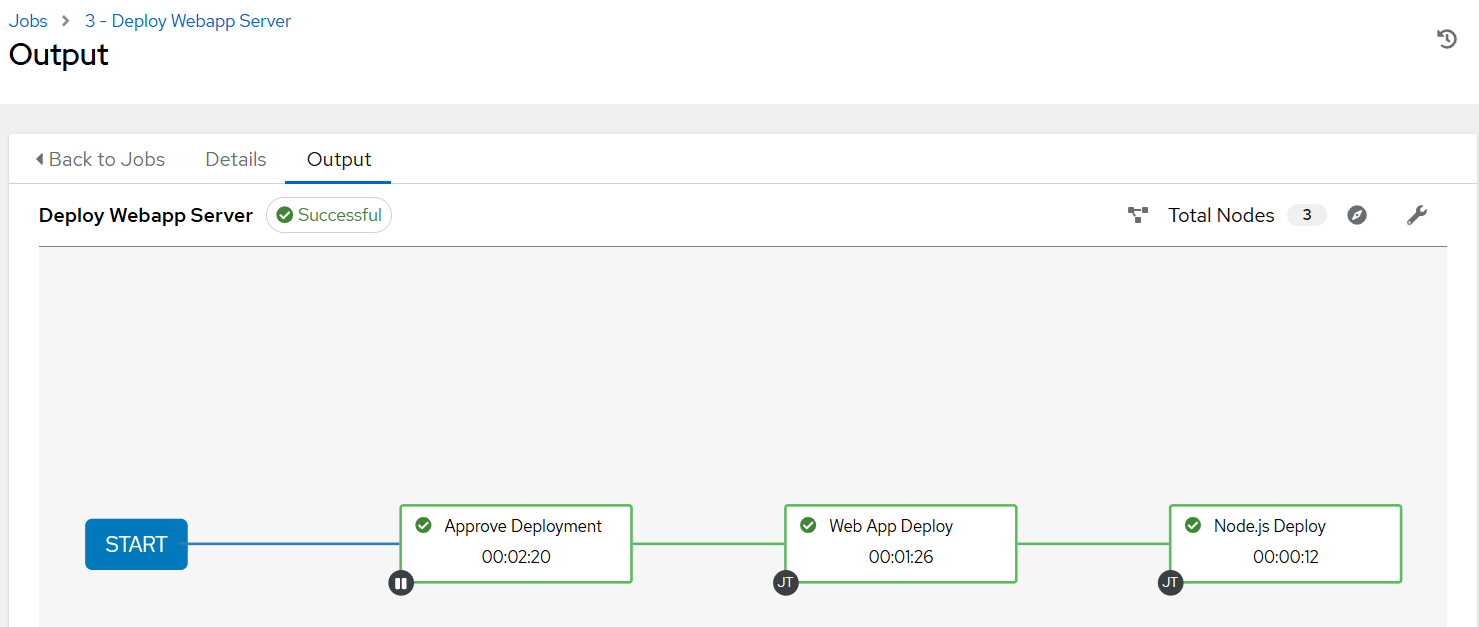
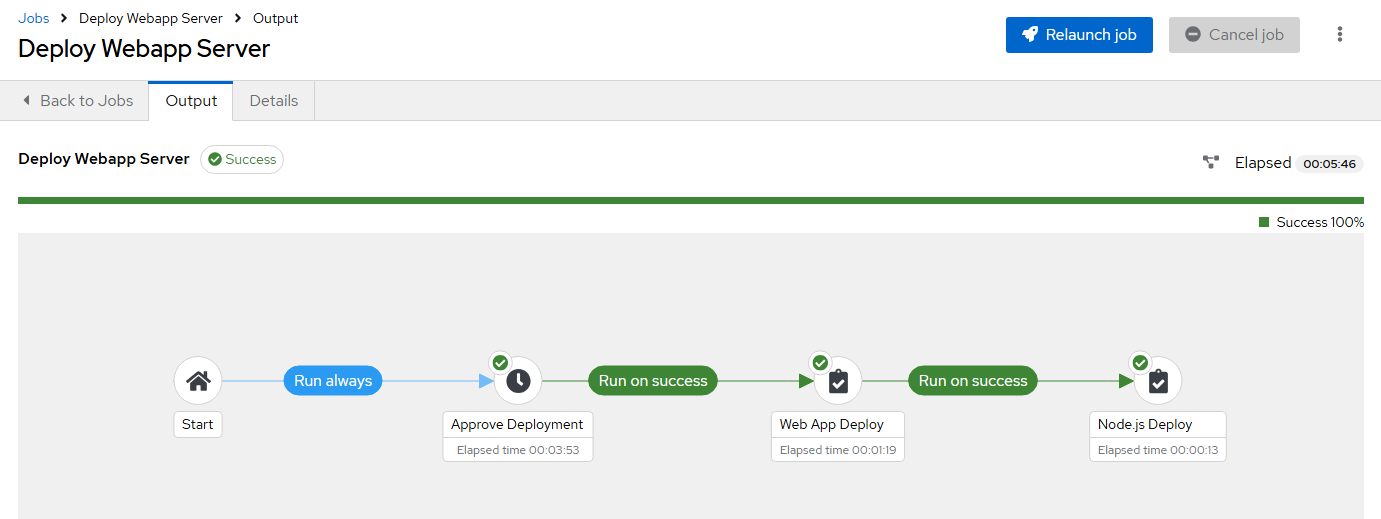
Updated exercises for AAP 2.5, updated MkDocs dependencies.

diff --git a/docs/part2.md b/docs/part2.md
@@ -3,43 +3,12 @@
 Die Konfiguration der Automation Platform wird über ein Ansible Playbook angepasst, du kannst das Playbook mit dem folgenden Kommando im Terminal/auf der Kommandozeile ausführen:
 
 ```console
-ansible-playbook playbook_controller_automation.yml
+ansible-navigator run playbook_controller_automation.yml
 ```
 
 Bei den ersten Ausführungen wirst du mit einigen Fehlermeldung konfrontiert, es fehlen Dependencies, Credentials und auch ein Teil der Automatisierung an sich.
 
-## 1 - Dependencies installieren
-
-Wenn du versuchst das *Playbook* auszuführen, wirst du die folgende Fehlermeldung erhalten:
-
-!!! failure
-
-    ```console
-    ERROR! Error loading module_defaults: could not resolve the module_defaults group awx.awx.controller
-    ```
-
-Es fehlen zur Ausführung notwendige *Dependencies*.  
-Ansible Module werden in *Collections* hinterlegt (im Grunde eine spezielle Ordner-Struktur), sie können auf dem Controller mit einem CLI-Kommando installiert werden. Die Datei `requirements.yml` enthält den Namen der Collection, suche in der [Ansible Dokumentation nach dem passenden Kommando](https://docs.ansible.com/ansible/latest/collections_guide/collections_installing.html#install-multiple-collections-with-a-requirements-file){ target=_blank } und führe es aus.
-
-??? tip "Hilfe nötig?"
-
-    Die fehlende Collection mit folgendem Kommando installieren:
-
-    ```console
-    ansible-galaxy collection install -r requirements.yml
-    ```
-
-    Anschließend mit dem folgenden Kommando prüfen:
-
-    ```console
-    ansible-galaxy collection list
-    ```
-
-!!! question "Alles erledigt?"
-
-    * [x] Notwendige `awx.awx` Collection ist installiert.
-
-## 2 - Credentials exportieren
+## 1 - Credentials exportieren
 
 Um die AAP automatisieren zu können, muss sich das Playbook bei der Ausführung an der API anmelden, die notwendigen Credentials werden als *Umgebungsvariablen* übergeben. Die folgenden drei Variablen müssen definiert werden:
 
@@ -66,7 +35,84 @@ env | grep CONTROLLER
 
     * [x] AAP-API Credentials als Umgebungsvariablen exportiert (`CONTROLLER_HOST`, `CONTROLLER_USERNAME`, `CONTROLLER_PASSWORD`)
 
+## 2 - Credentials im (Ausführungs-) Container bekanntmachen
+
+Du kannst jetzt das Playook mit dem folgenden Kommando ausführen:
+
+```console
+ansible-navigator run playbook_controller_automation.yml
+```
+
+!!! failure
+
+    Du erhälst die folgende Fehlermeldung:
+
+    ```console
+    TASK [Ensure required connection variables are defined] ************************
+    fatal: [localhost]: FAILED! => {"assertion": "lookup('env', 'CONTROLLER_HOST') | length > 0", "changed": false, "evaluated_to": false, "msg": "Variables for accessing Automation controller are missing! Export the variables."}
+    ```
+
+    Es fehlen Variablen für den Login an der Ansible Automation Platform.
+
+    **Aber die Variablen habe ich doch im vorherigen Schritt definiert/exportiert?**
+
+Das `ansible-navigator` Binary startet bei jedem Aufruf einen (Podman-)Container, dieser Container ist eine isolierte Ausführungsumgebung (fast wie eine eigene, kleine Linux-Instanz), in dieser sind die von dir zuvor exportierten Umgebungsvariablen **nicht** bekannt.  
+
+Du musst die Umgebungsvariablen an den Container *übergeben* (*pass into the container*), dafür musst du die bestehende `ansible-navigator.yml` Konfigurationsdatei anpassen.  
+Diese Datei legt einige Parameter für den *Ansible Navigator* fest (z.B. das verwendete Container Image, wo Log-Dateien gespeichert werden sollen, ...). Suche in der [Ansible Navigator Dokumentation](https://ansible.readthedocs.io/projects/navigator/settings/#pass-environment-variable){ target=_blank } nach dem passenden Parameter und füge an der **richtigen** Stelle eine **Liste** der zu übergebenen Umgebungsvariablen ein:
+
+```yaml
+        - CONTROLLER_HOST
+        - CONTROLLER_USERNAME
+        - CONTROLLER_PASSWORD
+```
+
+??? tip "Hilfe nötig?"
+
+    Die Konfigurationsdatei muss folgendermaßen aussehen, du kannst sie mit einem kleinen *Copy*-Button im Textfeld kopieren:
+
+
+    ```yaml title="ansible-navigator.yml"
+    ---
+    ansible-navigator:
+      execution-environment:
+        image: registry.redhat.io/ansible-automation-platform-25/ee-supported-rhel8:latest
+        enabled: true
+        container-engine: podman
+        pull:
+          policy: missing
+        volume-mounts:
+          - src: "/etc/ansible/"
+            dest: "/etc/ansible/"
+        environment-variables:
+          pass:
+            - CONTROLLER_HOST
+            - CONTROLLER_USERNAME
+            - CONTROLLER_PASSWORD
+      logging:
+        level: warning
+        file: logs/ansible-navigator.log
+      mode: stdout
+      playbook-artifact:
+        enable: true
+        save-as: "logs/{playbook_status}-{playbook_name}-{time_stamp}.json"
+
+    ```
+
+!!! question "Alles erledigt?"
+
+    * [X] Die `ansible-navigator.yml` Konfiguration ist angepasst
+    * [x] Die drei Umgebgungsvariablen (`CONTROLLER_HOST`, `CONTROLLER_USERNAME`, `CONTROLLER_PASSWORD`) werden in den Container übergeben
+
 ## 3 - Automatisierung anpassen/vervollständigen
+
+Du kannst jetzt das Playook mit dem folgenden Kommando ausführen:
+
+```console
+ansible-navigator run playbook_controller_automation.yml
+```
+
+Zumindest der *Tasks* zur Überprüfung der Variablen und ein weiterer läuft bereits durch, trotzdem schlägt die Ausführung noch fehl.  
 
 Die Automatisierung ist unvollständig, wenn du das Playbook erneut ausführst, wird versucht ein Job-Template zu erstellen, welches auf ein nicht-existentes *Project* verweist.
 
@@ -76,11 +122,12 @@ Die Automatisierung ist unvollständig, wenn du das Playbook erneut ausführst, 
     Request to /api/v2/projects/?name=Git+Repository+with+Ops+Playbooks returned 0 items, expected 1
     ```
 
-Ein *Project* in der AAP zeigt auf ein *Git-Repository*, es enthält allen *Code* für die Automatisierung.  
-Die AAP zieht sich den Code aus diesem und sorgt (durch die Auswahl einer Option) dafür, dass vor jeder Ausführung der Automatisierung der aktuellste Stand geladen wird.
+Ein *Project* in der AAP zeigt auf ein *Git-Repository*, es enthält allen *Code* für die Automatisierung. Ein *Job Template* legt die Parameter zur Ausführung dieses *Codes* fest, es muss daher wissen, aus welchem *Project* der Code kommen soll.  
+Die AAP zieht alles zur Ausführung aus dem *Git Repository* und sorgt (durch die Auswahl einer Option) dafür, dass vor jeder Ausführung der Automatisierung, der aktuellste Stand geladen wird.
 
-**Ein Ansible-Playbook besteht aus einer Liste an *Tasks*, du musst die fehlenden Tasks hinzufügen!**  
-Klicke links im *File Explorer* auf die Datei `playbook_controller_automation.yml`, ab Zeile 23 sind die einzelnen *Tasks* (Schritte/Aufgaben) beschrieben, um den AAP Controller in den gewünschten Zielzustand zu versetzen.
+**Ein Ansible Playbook besteht aus einer Liste an *Tasks*, du musst die fehlenden Tasks hinzufügen!**  
+
+Klicke links im *File Explorer* auf die Datei `playbook_controller_automation.yml`, ab Zeile 24 sind die einzelnen *Tasks* (Schritte/Aufgaben) beschrieben, um den AAP Controller in den gewünschten Zielzustand zu versetzen.
 
 !!! example ""
 
@@ -91,7 +138,7 @@ Klicke links im *File Explorer* auf die Datei `playbook_controller_automation.ym
       hosts: localhost # (2)!
       connection: local
       module_defaults: # (3)!
-        group/awx.awx.controller:
+        group/ansible.controller.controller:
           controller_host: "{{ lookup('env', 'CONTROLLER_HOST') }}"
           controller_username: "{{ lookup('env', 'CONTROLLER_USERNAME') }}"
           controller_password: "{{ lookup('env', 'CONTROLLER_PASSWORD') }}"
@@ -109,7 +156,7 @@ Klicke links im *File Explorer* auf die Datei `playbook_controller_automation.ym
             fail_msg: "Variables for accessing Automation controller are missing! Export the variables."
       tasks: # (5)!
         - name: Ensure all hosts from web group are enabled
-          awx.awx.host:
+          ansible.controller.host:
             name: "{{ item }}"
             inventory: Workshop Inventory
             enabled: true
@@ -131,7 +178,7 @@ Klicke links im *File Explorer* auf die Datei `playbook_controller_automation.ym
 Suche in der [Ansible Dokumentation](https://docs.ansible.com/ansible/latest/collections/awx/awx/index.html#modules){ target=_blank } nach dem passenden *Modul* zur Erstellung eines *Projects*.  
 
 !!! tip
-    Nutze die *Examples* (Beispiele) auf der Dokumentations-Seite des Moduls, du kannst ein Beispiel kopieren und einfügen, anschließend passt du die Parameter an und fügst fehlende Parameter hinzu. Im Zweifel musst du den *Modul*-Namen noch mit `awx.awx.` prefixen.
+    Nutze die *Examples* (Beispiele) auf der Dokumentations-Seite des Moduls, du kannst ein Beispiel kopieren und einfügen, anschließend passt du die Parameter an und fügst fehlende Parameter hinzu. Der *Modul*-Name **muss** `ansible.controller.` statt mit `awx.awx.` beginnen!
 
 Du musst sowohl das Project mit dem Operations-Content, als auch das Project mit dem Development-Content hinzufügen (**insgesamt also zwei Tasks**).
 
@@ -162,7 +209,7 @@ Du musst sowohl das Project mit dem Operations-Content, als auch das Project mit
     | `state`                | `present`                                          |
 
 !!! warning
-    **Ein Ansible-Playbook wird sequentiell abgearbeitet, die Reihenfolge ist entscheidend!**  
+    **Ein Ansible Playbook wird sequentiell abgearbeitet, die Reihenfolge ist entscheidend!**  
     Füge die Tasks hinter dem Task `Ensure all hosts from web group are enabled`, aber vor dem Task `Create job template for infrastructure setup as Ops workload` ein.  
     Playbooks sind im YAML-Format geschrieben, hier kommt es auf die passende **Einrückung** an, **alle Tasks müssen auf der gleichen Ebene starten!**
 
@@ -172,7 +219,7 @@ Du musst sowohl das Project mit dem Operations-Content, als auch das Project mit
     {% raw %}
     ```yaml
     - name: Add project with playbooks for Ops workloads
-      awx.awx.project:
+      ansible.controller.project:
         name: Git Repository with Ops Playbooks
         default_environment: Default execution environment
         scm_type: git
@@ -184,7 +231,7 @@ Du musst sowohl das Project mit dem Operations-Content, als auch das Project mit
         state: present
 
     - name: Add project with playbooks for Dev workloads
-      awx.awx.project:
+      ansible.controller.project:
         name: Git Repository with Dev Playbooks
         default_environment: Default execution environment
         scm_type: git
@@ -205,7 +252,7 @@ Du musst sowohl das Project mit dem Operations-Content, als auch das Project mit
           hosts: localhost
           connection: local
           module_defaults:
-            group/awx.awx.controller:
+            group/ansible.controller.controller:
               controller_host: "{{ lookup('env', 'CONTROLLER_HOST') }}"
               controller_username: "{{ lookup('env', 'CONTROLLER_USERNAME') }}"
               controller_password: "{{ lookup('env', 'CONTROLLER_PASSWORD') }}"
@@ -223,7 +270,7 @@ Du musst sowohl das Project mit dem Operations-Content, als auch das Project mit
                 fail_msg: "Variables for accessing Automation controller are missing! Export the variables."
           tasks:
             - name: Ensure all hosts from web group are enabled
-              awx.awx.host:
+              ansible.controller.host:
                 name: "{{ item }}"
                 inventory: Workshop Inventory
                 enabled: true
@@ -234,7 +281,7 @@ Du musst sowohl das Project mit dem Operations-Content, als auch das Project mit
                 - node3
 
             - name: Add project with playbooks for Ops workloads
-              awx.awx.project:
+              ansible.controller.project:
                 name: Git Repository with Ops Playbooks
                 default_environment: Default execution environment
                 scm_type: git
@@ -246,7 +293,7 @@ Du musst sowohl das Project mit dem Operations-Content, als auch das Project mit
                 state: present
 
             - name: Add project with playbooks for Dev workloads
-              awx.awx.project:
+              ansible.controller.project:
                 name: Git Repository with Dev Playbooks
                 default_environment: Default execution environment
                 scm_type: git
@@ -258,7 +305,7 @@ Du musst sowohl das Project mit dem Operations-Content, als auch das Project mit
                 state: present
 
             - name: Create job template for infrastructure setup as Ops workload
-              awx.awx.job_template:
+              ansible.controller.job_template:
                 name: Web App Deploy
                 job_type: run
                 inventory: Workshop Inventory
@@ -271,7 +318,7 @@ Du musst sowohl das Project mit dem Operations-Content, als auch das Project mit
                 become_enabled: true
 
             - name: Create job template for infrastructure setup as Dev workload
-              awx.awx.job_template:
+              ansible.controller.job_template:
                 name: Node.js Deploy
                 job_type: run
                 inventory: Workshop Inventory
@@ -284,7 +331,7 @@ Du musst sowohl das Project mit dem Operations-Content, als auch das Project mit
                 become_enabled: true
 
             - name: Create DevOps workflow for infrastructure setup and Nginx deployment
-              awx.awx.workflow_job_template:
+              ansible.controller.workflow_job_template:
                 name: Deploy Webapp Server
                 destroy_current_nodes: true
                 workflow_nodes:
@@ -308,7 +355,7 @@ Du musst sowohl das Project mit dem Operations-Content, als auch das Project mit
                       type: job_template
 
             - name: Launch workflow
-              awx.awx.workflow_launch:
+              ansible.controller.workflow_launch:
                 workflow_template: Deploy Webapp Server
                 wait: false
 
@@ -326,10 +373,10 @@ Du musst sowohl das Project mit dem Operations-Content, als auch das Project mit
 Sobald alles vollständig ist, kannst du die Automatisierung ausführen. Im Terminal wieder das folgende Kommando ausführen:
 
 ```console
-ansible-playbook playbook_controller_automation.yml
+ansible-navigator run playbook_controller_automation.yml
 ```
 
-Du wirst die einzelnen Task-Beschreibungen mit einem gelben *Changed*-Status sehen (wenn die Objekte angelegt/angepasst) werden, wenn alle Tasks erfolgreich abgearbeitet sind endet der Playbook-Run mit einem *Play Recap*.
+Du wirst die einzelnen Task-Beschreibungen mit einem gelben *Changed*-Status sehen (wenn die Objekte angelegt/angepasst) werden, **wenn alle Tasks erfolgreich abgearbeitet sind endet der Playbook-Run mit einem `Play Recap`**.
 
 ## 5 - Automatisierung bestätigen
 
@@ -342,7 +389,7 @@ Im Controller-UI, klicke links auf **Workflow Approvals**. Bestätige die Ausfü
   ![Workflow Approval](assets/images/AAPApproveWorkflow.png)
 </figure>
 
-Anschließend kannst du auf den Workflow Job klicken (im Screenshot `3 - Deploy Webapp Server`), es öffnet sich eine Ansicht mit den einzelnen Workflow-Steps. Ebenfalls kannst du im linken Menü auf **Jobs** klicken und dort den Workflow Job auswählen.
+Im linken Menü auf **Automation Execution &rarr; Jobs** klicken und dort den Workflow Job auswählen (auf `Deploy Webapp Server` klicken).
 
 <figure markdown="span">
   ![Workflow Running](assets/images/AAPWorkflowRunning.png)

diff --git a/docs/part1.md b/docs/part1.md
@@ -42,15 +42,6 @@ Im Abschnitt "**2 - :material-microsoft-visual-studio-code: image Visual Studio 
 
 Es wird ein VS Code Editor im Browser gestartet, warte bis er vollständig geladen ist.
 
-!!! tip "Nützliche VScode Konfiguration"
-
-    **Farbschema für Syntax-Highlighting anpassen**
-
-    Die *Ansible* Extension unterstützt *Syntax-Highlighting* für Ansible-Inhalte. Je nach verwendeten *Theme* von VScode wird dies möglicherweise nicht korrekt angezeigt. Verwende das **Dark+ Theme**.  
-    Klicke auf **File** in der oberen Menüleiste, gehe auf **Preferences**, **Theme** und klicke auf **Color Theme**. Hier **Dark+ (Default Dark+)** wählen.
-
-    ![Workbench Color Theme](assets/images/WorkbenchColorTheme.png)
-
 ## 3 - Github Projekt klonen
 
 Öffne ein Terminal. In der Menüleiste **Terminal** wählen und auf **New Terminal** klicken.  
@@ -70,3 +61,13 @@ git clone https://github.com/TimGrt/IaC-Workshop-Uni-DuE.git
     Hier **Zulassen** wählen.
 
 Es entsteht ein neuer Ordner, diesen über das Menüband **File** und **Open Folder...** öffnen (`/home/student/IaC-Workshop-Uni-DuE/`). Das Browser-Fenster aktualisiert sich, auf der linken Seite ist eine Ordner- und Dateiansicht zu sehen. Öffne wieder ein Terminal wie zuvor, um später die Automatisierung ausführen zu können.
+
+!!! tip "Nützliche VScode Konfiguration"
+
+    **Farbschema für Syntax-Highlighting anpassen**
+
+    Die *Ansible* Extension unterstützt *Syntax-Highlighting* für Ansible-Inhalte. Je nach verwendeten *Theme* von VScode wird dies möglicherweise nicht korrekt angezeigt. Verwende das **Dark+ Theme**.  
+    Klicke auf **File** in der oberen Menüleiste, gehe auf **Preferences**, **Theme** und klicke auf **Color Theme**.  
+    Hier **Dark+ (default dark)** wählen.
+
+    ![Workbench Color Theme](assets/images/WorkbenchColorTheme.png)

diff --git a/README.md b/README.md
@@ -1,2 +1,3 @@
 # IaC-Workshop-Uni-DuE
+
 Infrastructure as Code Demo with AAP for Workshop with Informatik-Fachschaft Uni Duisburg-Essen
